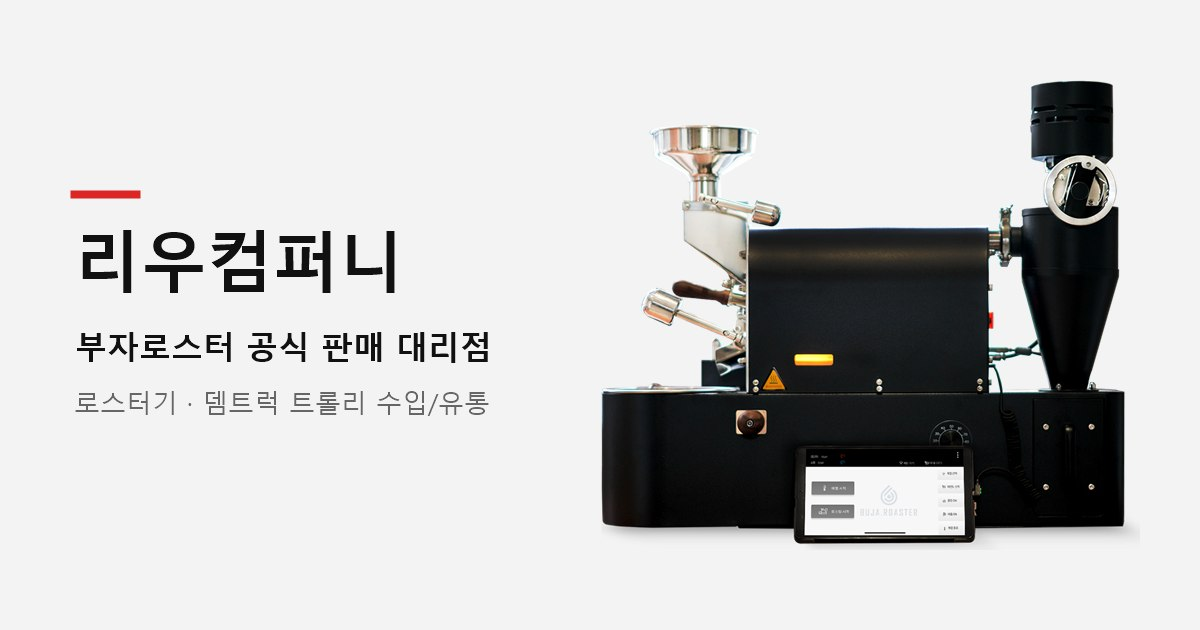
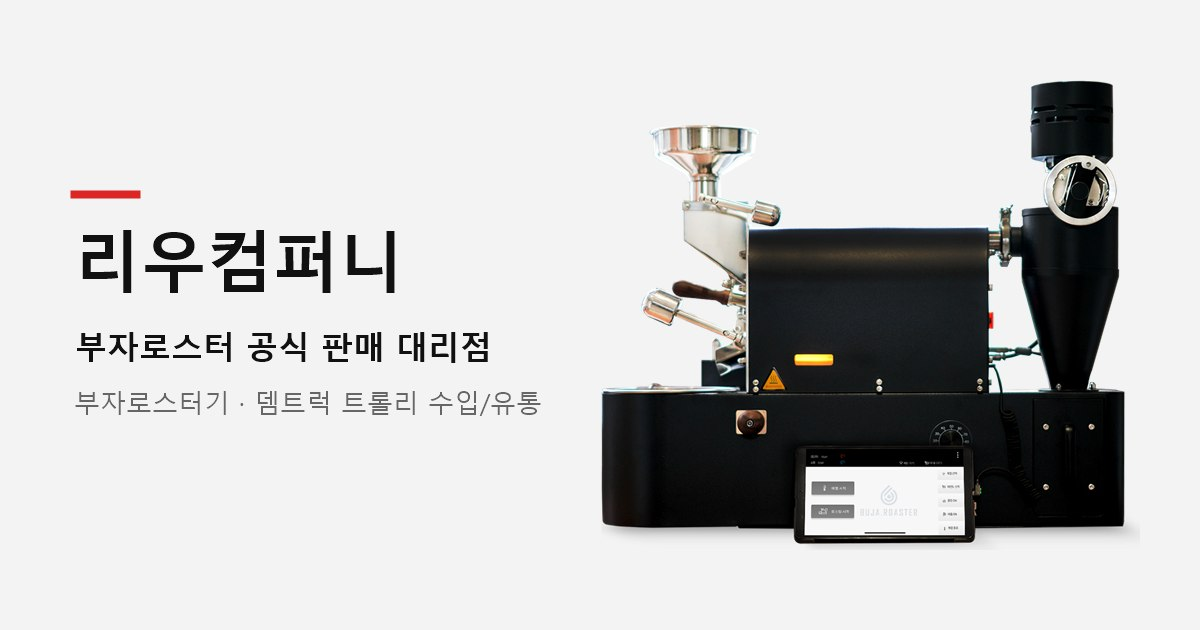
Say 부자로스터기 in the search description and share image

Changed region(s): [[0.0617, 0.6032, 0.4625, 0.6635]]

diff --git a/index.html b/index.html
@@ -6,7 +6,7 @@
     <meta name="viewport" content="width=device-width, initial-scale=1.0" />
     <meta
       name="description"
-      content="부자로스터(Buja Roaster) 공식 판매 대리점 리우컴퍼니. 전기식·가스식 커피 로스터기와 뎀트럭 트롤리 수입·유통, 전시장 시연 및 A/S 상담."
+      content="부자로스터(Buja Roaster) 공식 판매 대리점 리우컴퍼니. 전기식·가스식 부자로스터기와 뎀트럭 트롤리 수입·유통, 전시장 시연 및 A/S 상담."
     />
     <link rel="canonical" href="https://www.lieucompany.com/" />
     <meta property="og:type" content="website" />
@@ -15,7 +15,7 @@
     <meta property="og:title" content="리우컴퍼니 | 부자로스터 공식 판매 대리점" />
     <meta
       property="og:description"
-      content="전기식·가스식 커피 로스터기와 뎀트럭 트롤리 수입·유통, 전시장 시연 및 A/S 상담."
+      content="전기식·가스식 부자로스터기와 뎀트럭 트롤리 수입·유통, 전시장 시연 및 A/S 상담."
     />
     <meta property="og:url" content="https://www.lieucompany.com/" />
     <meta property="og:image" content="https://www.lieucompany.com/og-image.jpg" />
